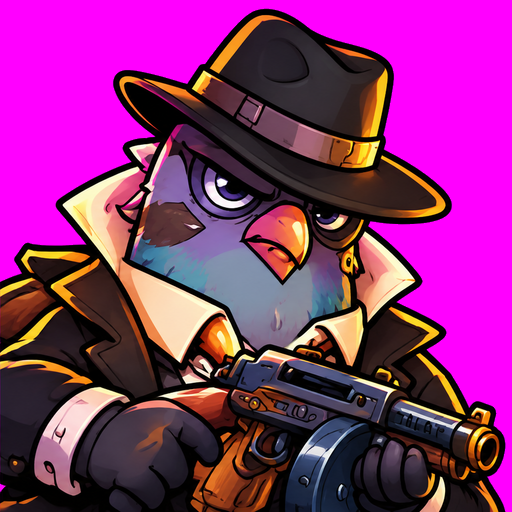
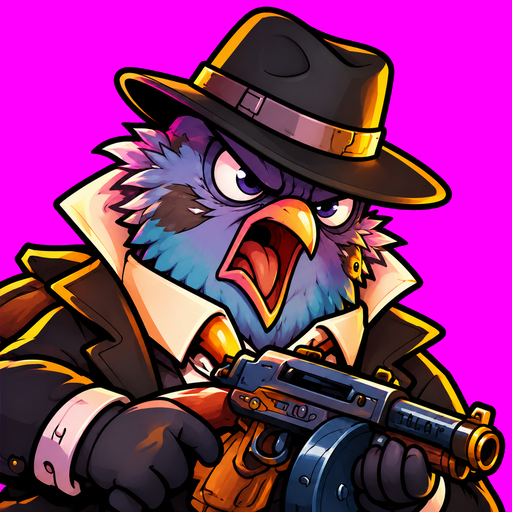
art(saga): add v7 block A assets

diff --git a/astra/inbox/story/portraits2/STATUS.md b/astra/inbox/story/portraits2/STATUS.md
@@ -1,5 +1,3 @@
 # v7 block A — ready
 
-15 separate 512×512 PNG portraits for new scenes. Includes two emotions per character plus the concealed Emperor silhouette. Magenta key background; no text. Generated against approved repository character references. Row ordering and exact paths are in manifest.json.
-
-Ready for developer integration; gameplay code was not changed.
+15 separate 512×512 PNGs. Two emotions per character plus Emperor silhouette; Godfather Pigeon anger strengthened after visual QA. Magenta key background, no text. Ready for developer integration.
